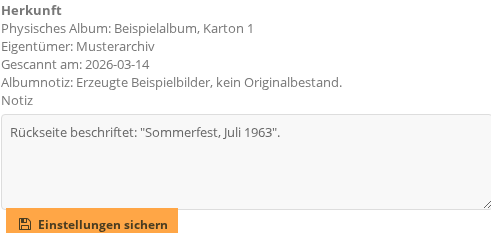
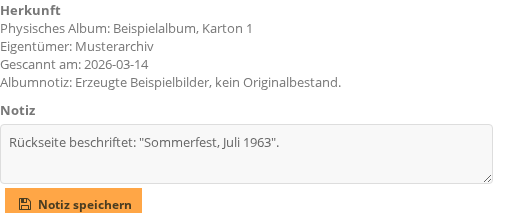
photo properties: Notiz block gets a heading and core's field style, its button reads "Notiz speichern"
Task 44. The page now shows one "Einstellungen sichern" (core's) and one
"Notiz speichern". Since task 33 the block sits outside #picture-content,
so it carries core's field styling itself. Handbook ch3 and shot 10 updated.

Changed region(s): [[0.0, 0.0, 0.7026, 0.4507], [0.0, 0.6197, 1.0, 1.0], [0.0, 0.4789, 1.0, 0.5915]]

diff --git a/plugins/provenance/tests/e2e/photo-provenance.spec.js b/plugins/provenance/tests/e2e/photo-provenance.spec.js
@@ -92,6 +92,21 @@ test.describe('photo provenance block', () => {
     await expect(photo.blockInsideCoreForm).toHaveCount(0);
   });
 
+  test('the note has its own heading and button, apart from core\'s save button', async ({ page }) => {
+    const fixture = seed('photo-provenance');
+
+    const photo = new PhotoPropertiesPage(page);
+    await photo.goto(fixture.photo.id);
+
+    await expect(photo.heading).toBeVisible();
+    await expect(photo.heading).toHaveText('Herkunft');
+    await expect(photo.saveButton).toHaveText(/Notiz speichern/);
+    await expect(photo.coreSaveButton).toHaveText(/Einstellungen sichern/);
+    // Exactly one of each label on the page: no second "Einstellungen sichern".
+    await expect(page.getByText('Einstellungen sichern')).toHaveCount(1);
+    await expect(page.getByText('Notiz speichern')).toHaveCount(1);
+  });
+
   test('the album-sourced values are shown but not editable', async ({ page }) => {
     const fixture = seed('photo-provenance');
 

diff --git a/plugins/provenance/template/album_provenance.css b/plugins/provenance/template/album_provenance.css
@@ -73,8 +73,28 @@
   text-align: left;
 }
 
+/* Core styles the photo form's fields through #picture-content, which this block
+   sits outside of; the same look is repeated here so the Notiz reads like the
+   Titel and Beschreibung fields above it. */
+#provenance-photo-wrap #provenance-photo {
+  max-width: 50%;
+}
+
 #provenance-photo-wrap #provenance-photo-note {
-  width: 100%;
-  max-width: 45%;
+  display: block;
+  width: calc(100% - 15px);
+  height: 6em;
   box-sizing: border-box;
+  margin: 5px 0 10px;
+  padding: 8px;
+  background-color: #f8f8f8;
+  border: 1px solid #DDD;
+  border-radius: 4px;
+  font-family: "Open Sans", "Lucida Grande", Verdana, Arial, "Bitstream Vera Sans", sans-serif;
+}
+
+#provenance-photo-wrap label[for="provenance-photo-note"] {
+  display: block;
+  margin-top: 10px;
+  font-weight: bold;
 }

diff --git a/plugins/provenance/tests/e2e/support/PhotoPropertiesPage.js b/plugins/provenance/tests/e2e/support/PhotoPropertiesPage.js
@@ -27,6 +27,9 @@ class PhotoPropertiesPage {
     this.note = page.locator('#provenance-photo-note');
     this.saveButton = page.locator('#provenance-photo-save');
     this.message = page.locator('#provenance-photo-message');
+    this.heading = page.locator('#provenance-photo-heading');
+    /** Core's own save button in the fixed save bar of the photo form. */
+    this.coreSaveButton = page.locator('#pictureModify button[name="submit"]');
     this.description = page.locator('#pictureModify #description');
     /** The block when core's photo form contains it - there must be none. */
     this.blockInsideCoreForm = page.locator('#pictureModify #provenance-photo');

diff --git a/handbuch/03-fototexte.html b/handbuch/03-fototexte.html
@@ -143,7 +143,7 @@
 </ul>
 
 <p>
-  Für die Notiz gibt es eine eigene Schaltfläche <strong>Einstellungen sichern</strong> direkt
+  Für die Notiz gibt es eine eigene Schaltfläche <strong>Notiz speichern</strong> direkt
   darunter. Danach erscheint <strong>Herkunft gespeichert</strong>.
 </p>
 

diff --git a/plugins/provenance/language/de_DE/plugin.lang.php b/plugins/provenance/language/de_DE/plugin.lang.php
@@ -8,6 +8,7 @@ $lang['Provenance saved'] = 'Herkunft gespeichert';
 $lang['Provenance could not be saved'] = 'Herkunft konnte nicht gespeichert werden';
 $lang['Album note'] = 'Albumnotiz';
 $lang['Note'] = 'Notiz';
+$lang['Save note'] = 'Notiz speichern';
 $lang['Apply to %d photos'] = 'Auf %d Fotos anwenden';
 $lang['Applying provenance to %d photos...'] = 'Herkunft wird auf %d Fotos angewendet...';
 $lang['Provenance applied to %d photos'] = 'Herkunft auf %d Fotos angewendet';

diff --git a/plugins/provenance/language/en_UK/plugin.lang.php b/plugins/provenance/language/en_UK/plugin.lang.php
@@ -8,6 +8,7 @@ $lang['Provenance saved'] = 'Provenance saved';
 $lang['Provenance could not be saved'] = 'Provenance could not be saved';
 $lang['Album note'] = 'Album note';
 $lang['Note'] = 'Note';
+$lang['Save note'] = 'Save note';
 $lang['Apply to %d photos'] = 'Apply to %d photos';
 $lang['Applying provenance to %d photos...'] = 'Applying provenance to %d photos...';
 $lang['Provenance applied to %d photos'] = 'Provenance applied to %d photos';

diff --git a/.agents/changes/2026-10-15-exploratory-testing-answers/tasks/44-notiz-button-and-heading.md b/.agents/changes/2026-10-15-exploratory-testing-answers/tasks/44-notiz-button-and-heading.md
@@ -1,0 +1,29 @@
+---
+id: 44
+dependencies:
+- 33
+---
+
+# Task 44: The photo Notiz has its own heading and a "Notiz speichern" button
+
+Added 2026-10-17 from task 33's finding (user's answer a): the photo properties page shows two "Einstellungen sichern" buttons, the Notiz's own and core's save bar.
+
+## References
+
+* Task 33 (`plugins/provenance/template/photo_provenance.tpl`, `album_provenance.css`)
+* `.claude/rules/handbook.md` (a screenshot or handbook text naming the button)
+
+## Work
+
+* [ ] The Notiz block gets a heading and its button reads "Notiz speichern" (language file entry; German override test if a core string is touched)
+* [ ] Handbook text and screenshots naming the old label updated (`handbook.md` cycle only if a shot shows it)
+
+## Verification
+
+* [x] E2E: the page shows one "Einstellungen sichern" and one "Notiz speichern"; the Notiz still saves. New test failed first (heading missing), then passed; photo-provenance.spec.js 13 passed, incl. the existing save tests.
+* [x] provenance suites pass; `check.php` passes. Unit 307 tests OK; photo E2E spec 13 passed; check.php OK. Integration suite not run (no PHP/ws change).
+
+## Deviations
+
+* Shot 10 now looks different beyond the label: task 33 moved the block outside core's form, so the committed shot predated its layout (wide, label left of the textarea, textarea styled differently). The new shot shows the current page; layout then polished (verify pass 2026-10-17): `album_provenance.css` repeats core's `#picture-content` field look (font, padding, radius, width) for the block, which sits outside that container; the Notiz label is above the textarea and the button below it. Shot 10 re-shot (seed/shoot/restore; other shots reverted, categories back to ids 1-5); photo-provenance.spec.js 13 passed, check.php OK.
+* The heading is an element role, not a new text: the block already carried the "Herkunft" label, which the handbook uses as the block's name.
